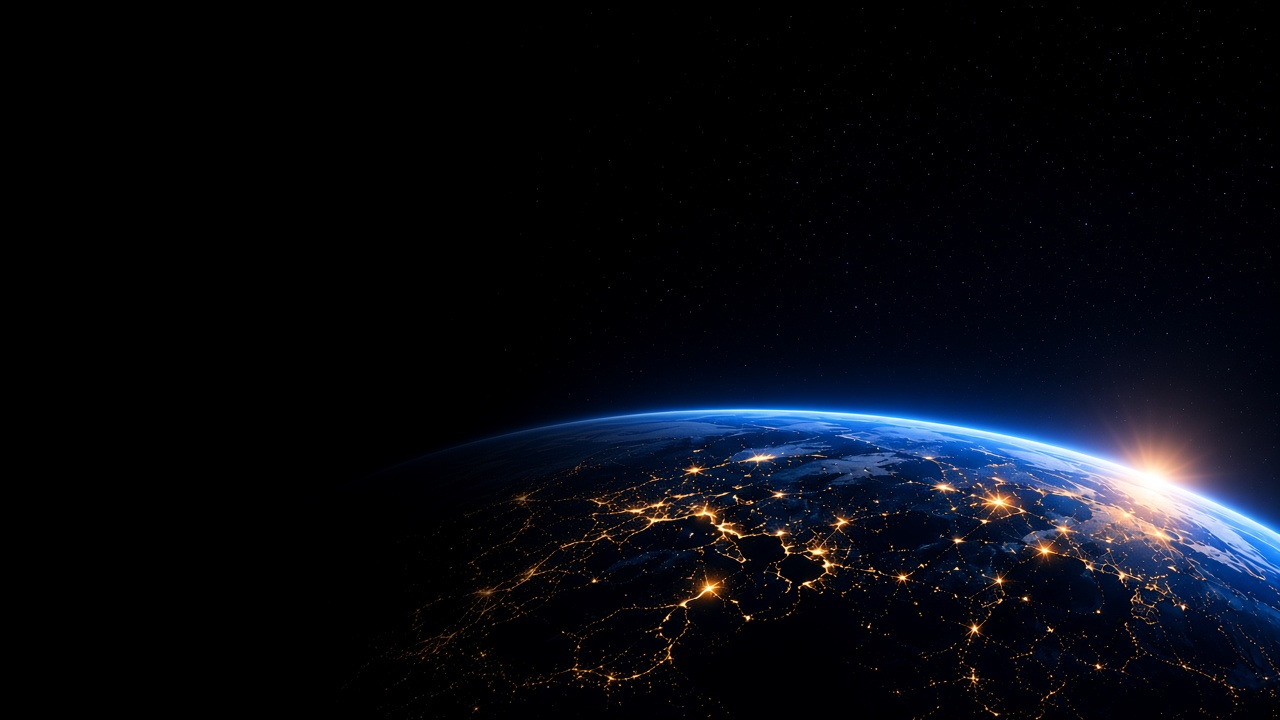
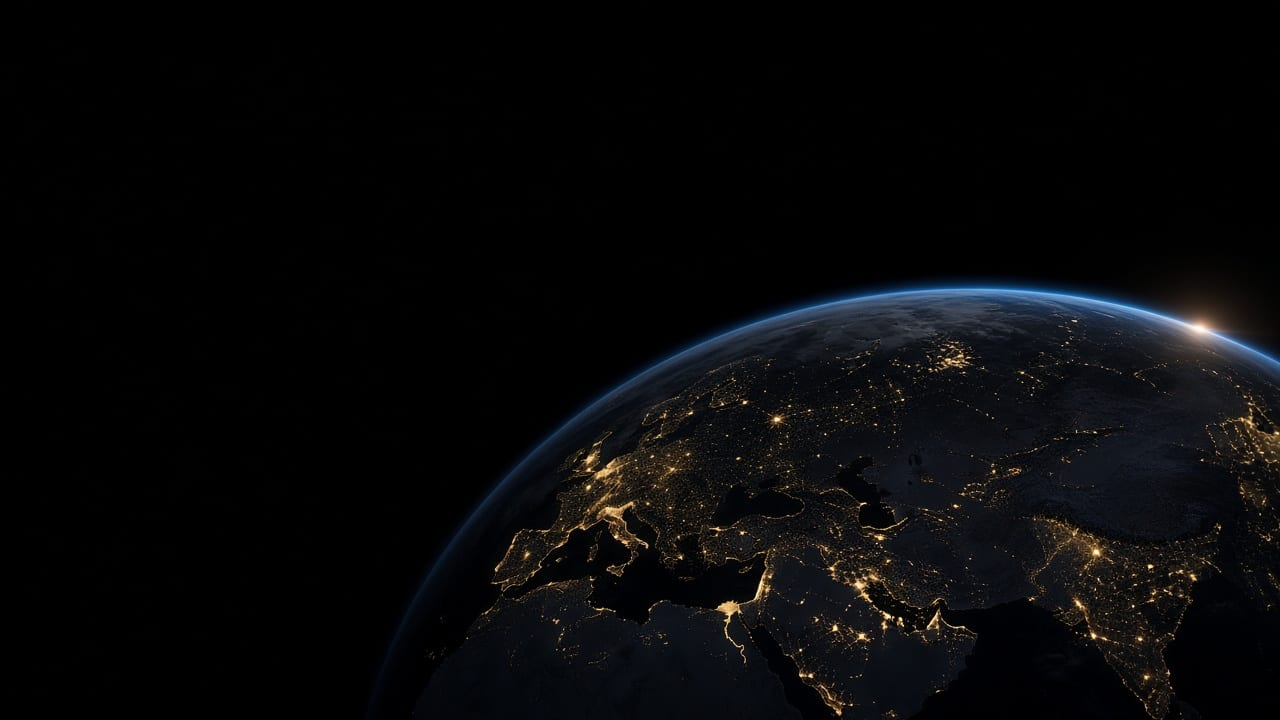
Polish the admin login space scene and hide public chrome.
Keep the official gold logo on a darker Earth horizon, use an accessible eye control, and prevent the marketing header and WhatsApp button from sitting over the sign-in card.

diff --git a/app/globals.css b/app/globals.css
@@ -10913,6 +10913,13 @@ body.go-login-open .orbit-app-shell {
   overflow: hidden;
 }
 
+body.go-login-open header,
+body.go-login-open footer,
+body.go-login-open .orbit-wa-fab,
+body.go-login-open .orbit-gold-fab {
+  display: none !important;
+}
+
 .go-login {
   position: fixed;
   inset: 0;
@@ -10934,7 +10941,7 @@ body.go-login-open .orbit-app-shell {
   width: 100%;
   height: 100%;
   object-fit: cover;
-  object-position: 72% 70%;
+  object-position: 88% 82%;
 }
 
 .go-login-veil {
@@ -10949,11 +10956,12 @@ body.go-login-open .orbit-app-shell {
   min-height: 100dvh;
   min-height: 100svh;
   display: grid;
-  grid-template-columns: minmax(0, 1.15fr) minmax(320px, 440px);
-  gap: clamp(1.5rem, 4vw, 4.5rem);
+  grid-template-columns: minmax(0, 1.2fr) minmax(340px, 430px);
+  gap: clamp(1.6rem, 5vw, 6rem);
   align-items: center;
-  padding: max(2.2rem, env(safe-area-inset-top)) max(1.4rem, env(safe-area-inset-right)) max(2.2rem, env(safe-area-inset-bottom)) max(1.6rem, env(safe-area-inset-left));
-  width: min(1180px, 100%);
+  padding: max(2.4rem, env(safe-area-inset-top)) max(5vw, env(safe-area-inset-right)) max(2.4rem, env(safe-area-inset-bottom)) max(5vw, env(safe-area-inset-left));
+  width: 100%;
+  max-width: 1320px;
   margin: 0 auto;
 }
 
@@ -11002,8 +11010,8 @@ body.go-login-open .orbit-app-shell {
   margin: 0;
   font-size: 1.05rem;
   line-height: 1.65;
-  color: rgba(214, 226, 247, 0.82);
-  font-weight: 450;
+  color: rgba(214, 226, 247, 0.86);
+  font-weight: 500;
 }
 
 .go-login-features {
@@ -11162,18 +11170,23 @@ body.go-login-open .orbit-app-shell {
 
 .go-login-eye {
   position: absolute;
-  right: 0.45rem;
+  right: 0.35rem;
   top: 50%;
   transform: translateY(-50%);
-  min-height: 2.2rem;
-  padding: 0 0.65rem;
+  width: 2.4rem;
+  height: 2.4rem;
+  display: grid;
+  place-items: center;
   border: 0;
-  border-radius: 0.6rem;
+  border-radius: 0.65rem;
   background: transparent;
   color: #9ec4ef;
-  font-size: 0.78rem;
-  font-weight: 700;
   cursor: pointer;
+}
+
+.go-login-eye svg {
+  width: 1.15rem;
+  height: 1.15rem;
 }
 
 .go-login-eye:focus-visible,
@@ -11259,7 +11272,7 @@ body.go-login-open .orbit-app-shell {
     padding-top: max(1.2rem, env(safe-area-inset-top));
   }
   .go-login-sky img {
-    object-position: 80% 85%;
+    object-position: 90% 92%;
   }
   .go-login-veil {
     background:

diff --git a/components/admin/admin-login.tsx b/components/admin/admin-login.tsx
@@ -85,7 +85,7 @@ export function AdminLogin() {
       <div className="go-login-sky" aria-hidden="true">
         <picture>
           <source srcSet="/brand/admin-login-earth.webp" type="image/webp" />
-          <img src="/brand/admin-login-earth.jpg" alt="" />
+                  <img src="/brand/admin-login-earth.jpg" alt="" decoding="async" />
         </picture>
       </div>
       <div className="go-login-veil" aria-hidden="true" />
@@ -98,6 +98,7 @@ export function AdminLogin() {
             className="go-login-logo"
             width={522}
             height={116}
+            decoding="async"
           />
           <p className="go-login-kicker">Administration portal</p>
           <h1 className="go-login-title">
@@ -178,7 +179,18 @@ export function AdminLogin() {
                   aria-pressed={show}
                   aria-label={show ? "Hide password" : "Show password"}
                 >
-                  {show ? "Hide" : "Show"}
+                  {show ? (
+                    <svg viewBox="0 0 24 24" aria-hidden="true">
+                      <path d="M4 12s3.2-6 8-6 8 6 8 6-3.2 6-8 6-8-6-8-6Z" fill="none" stroke="currentColor" strokeWidth="1.7" />
+                      <circle cx="12" cy="12" r="2.3" fill="none" stroke="currentColor" strokeWidth="1.7" />
+                      <path d="m5 19 14-14" fill="none" stroke="currentColor" strokeWidth="1.7" strokeLinecap="round" />
+                    </svg>
+                  ) : (
+                    <svg viewBox="0 0 24 24" aria-hidden="true">
+                      <path d="M4 12s3.2-6 8-6 8 6 8 6-3.2 6-8 6-8-6-8-6Z" fill="none" stroke="currentColor" strokeWidth="1.7" />
+                      <circle cx="12" cy="12" r="2.3" fill="none" stroke="currentColor" strokeWidth="1.7" />
+                    </svg>
+                  )}
                 </button>
               </div>
             </div>
